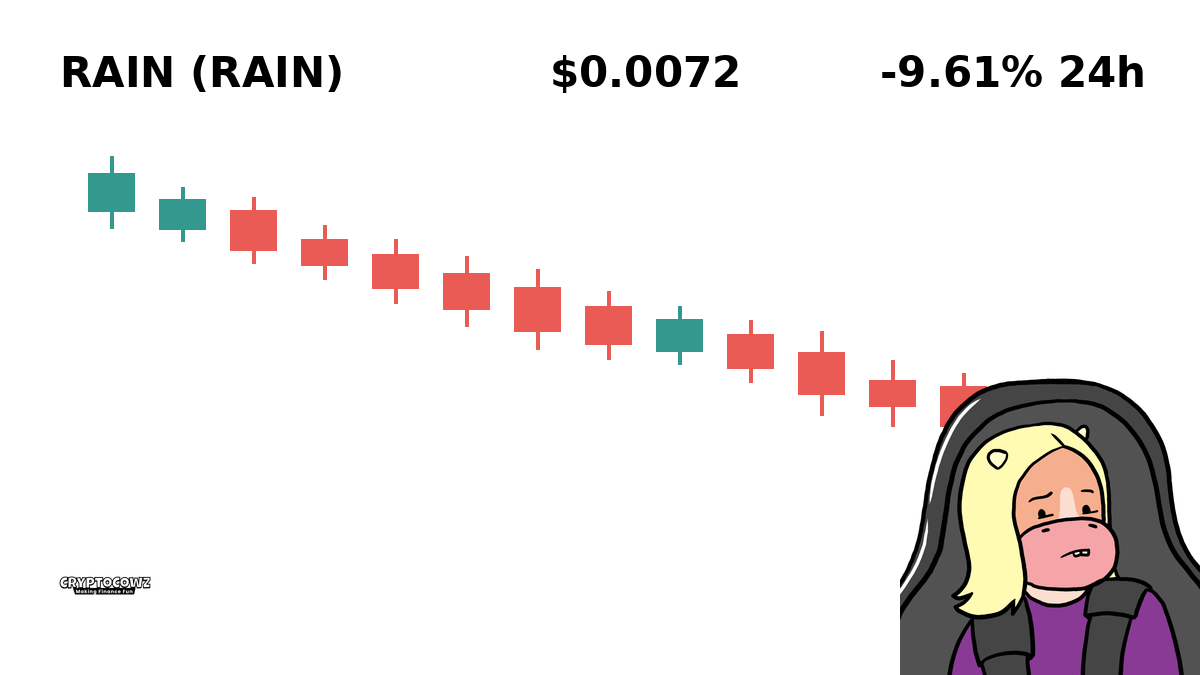
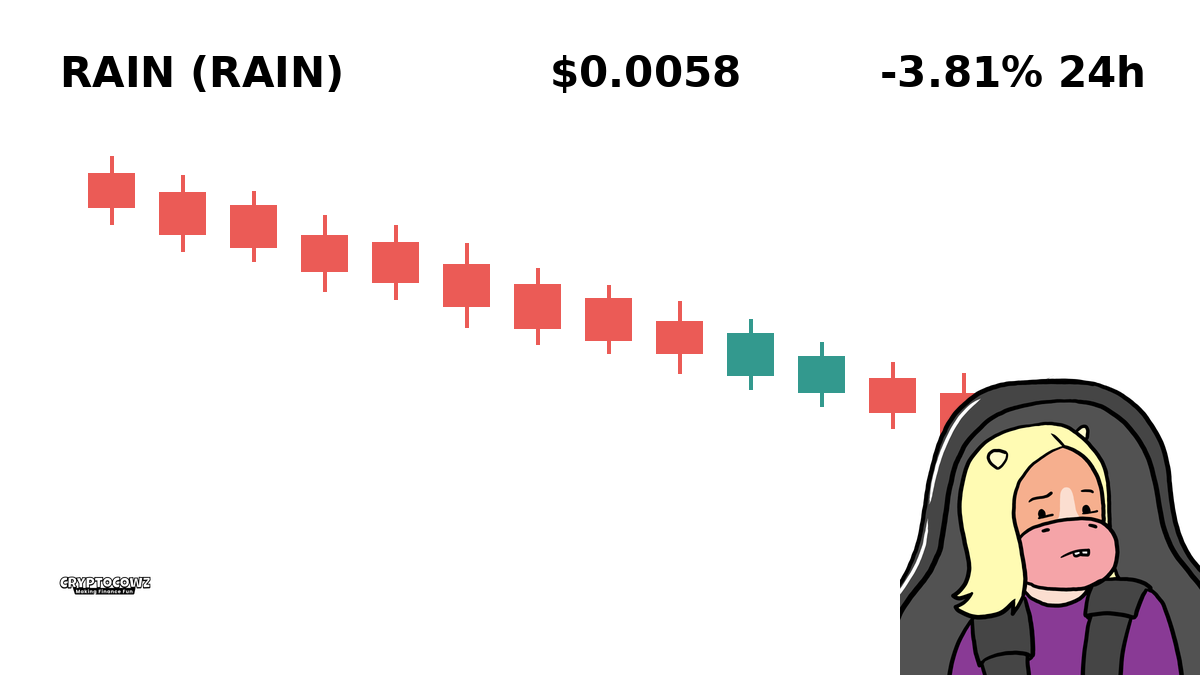
Auto-generate daily 10 CMC graphics & cleanup old images [skip ci]

diff --git a/output/cmc_prompts_latest.md b/output/cmc_prompts_latest.md
@@ -1,81 +1,81 @@
 # Daily Top Movers: CMC Community Visuals & Posts
 
-## 1. Pearl ($PEARL) — +4.83% (PUMP)
+## 1. Ether.fi ($ETHFI) — +10.93% (PUMP)
 **Cast Member:** Skip Zinfandel
-**CMC Comment:** Clam digging paid off, boys! Up four percent means I can afford real caviar on my jet ski this weekend.
+**CMC Comment:** Up nearly eleven percent today! I just put my third mortgage into liquid restaking because financial freedom is only one smart contract away.
 
-![PEARL Graphic](images/01_PUMP_PEARL.png)
-
----
-
-## 2. Bitway ($BTW) — +4.65% (PUMP)
-**Cast Member:** Frank Rizzo
-**CMC Comment:** Look at this beauty moving up! Keep buying or I send my cousin Tony to audit your portfolio.
-
-![BTW Graphic](images/02_PUMP_BTW.png)
+![ETHFI Graphic](images/01_PUMP_ETHFI.png)
 
 ---
 
-## 3. Injective ($INJ) — +3.39% (PUMP)
+## 2. Zcash ($ZEC) — +9.81% (PUMP)
 **Cast Member:** Professor Hartmut
-**CMC Comment:** A modest upward variance in Injective; clearly the market is finally appreciating my theoretical whitepaper on decentralization.
+**CMC Comment:** Privacy features are pumping, proving once again that true monetary utility lies in hiding your transaction history from both your spouse and the tax authorities.
 
-![INJ Graphic](images/03_PUMP_INJ.png)
+![ZEC Graphic](images/02_PUMP_ZEC.png)
 
 ---
 
-## 4. Figure Heloc ($FIGR_HELOC) — +1.61% (PUMP)
+## 3. Pearl ($PEARL) — +9.17% (PUMP)
 **Cast Member:** Sunshine Innocent Nimbus
-**CMC Comment:** Borrowing against my home to buy home-equity tokens feels like a beautiful cosmic feedback loop of pure abundance!
+**CMC Comment:** The universe is showering us with shiny pearls today! I knew if we all meditated on green candles hard enough, financial enlightenment would follow.
 
-![FIGR_HELOC Graphic](images/04_PUMP_FIGR_HELOC.png)
-
----
-
-## 5. Tether Gold ($XAUT) — +1.06% (PUMP)
-**Cast Member:** Skip Zinfandel
-**CMC Comment:** One percent green on digital shiny metal! Time to order the gold-leaf steak and leverage my entire retirement account.
-
-![XAUT Graphic](images/05_PUMP_XAUT.png)
+![PEARL Graphic](images/03_PUMP_PEARL.png)
 
 ---
 
-## 6. Ondo ($ONDO) — -8.76% (DUMP)
+## 4. Bitway ($BTW) — +8.33% (PUMP)
 **Cast Member:** Frank Rizzo
-**CMC Comment:** Down almost nine percent? I've seen kneecaps break with less painful drops than this junk.
+**CMC Comment:** Eight percent gain? Forget the mob, this is how real men make a honest living without getting their suits dirty.
 
-![ONDO Graphic](images/06_DUMP_ONDO.png)
+![BTW Graphic](images/04_PUMP_BTW.png)
 
 ---
 
-## 7. NEAR Protocol ($NEAR) — -8.82% (DUMP)
+## 5. Arbitrum ($ARB) — +6.74% (PUMP)
+**Cast Member:** Skip Zinfandel
+**CMC Comment:** Layer 2 scalability is finally paying for my artisan oat milk lattes. Upward and onward to financial validation!
+
+![ARB Graphic](images/05_PUMP_ARB.png)
+
+---
+
+## 6. KuCoin ($KCS) — -1.97% (DUMP)
+**Cast Member:** Frank Rizzo
+**CMC Comment:** Down two percent and people are sweating? Put on a jacket and hold the line, ya cowards.
+
+![KCS Graphic](images/06_DUMP_KCS.png)
+
+---
+
+## 7. Stacks ($STX) — -2.57% (DUMP)
 **Cast Member:** Professor Hartmut
-**CMC Comment:** The term NEAR is fitting, as retail investors are now dangerously near total economic ruin.
+**CMC Comment:** A minor correction for Smart Contracts on Bitcoin. Statistically speaking, pain builds character in distributed ledger systems.
 
-![NEAR Graphic](images/07_DUMP_NEAR.png)
-
----
-
-## 8. Ethena ($ENA) — -8.94% (DUMP)
-**Cast Member:** Sunshine Innocent Nimbus
-**CMC Comment:** The charts are just shedding negative energy right now, so please send your love and remaining liquidity to the universe.
-
-![ENA Graphic](images/08_DUMP_ENA.png)
+![STX Graphic](images/07_DUMP_STX.png)
 
 ---
 
-## 9. Ether.fi ($ETHFI) — -9.8% (DUMP)
-**Cast Member:** Skip Zinfandel
-**CMC Comment:** Down nearly ten percent and my margin call is ringing louder than my ex-wife's lawyer!
-
-![ETHFI Graphic](images/09_DUMP_ETHFI.png)
-
----
-
-## 10. Uniswap ($UNI) — -10.13% (DUMP)
+## 8. Bitcoin Cash ($BCH) — -3.28% (DUMP)
 **Cast Member:** Frank Rizzo
-**CMC Comment:** Unicorn? More like a donkey taking a massive dump right on my life savings!
+**CMC Comment:** Satoshi would be shaking his head. If I held bags like this back in Jersey, I'd throw myself off the boardwalk.
 
-![UNI Graphic](images/10_DUMP_UNI.png)
+![BCH Graphic](images/08_DUMP_BCH.png)
+
+---
+
+## 9. XRP ($XRP) — -3.77% (DUMP)
+**Cast Member:** Sunshine Innocent Nimbus
+**CMC Comment:** The SEC aura is disrupting the vibe today, but remember, every red dip is just the universe cleansing our bags.
+
+![XRP Graphic](images/09_DUMP_XRP.png)
+
+---
+
+## 10. Rain ($RAIN) — -3.81% (DUMP)
+**Cast Member:** Skip Zinfandel
+**CMC Comment:** It's literally raining losses right now, but I'm told real crypto chads don't use umbrellas.
+
+![RAIN Graphic](images/10_DUMP_RAIN.png)
 
 ---
